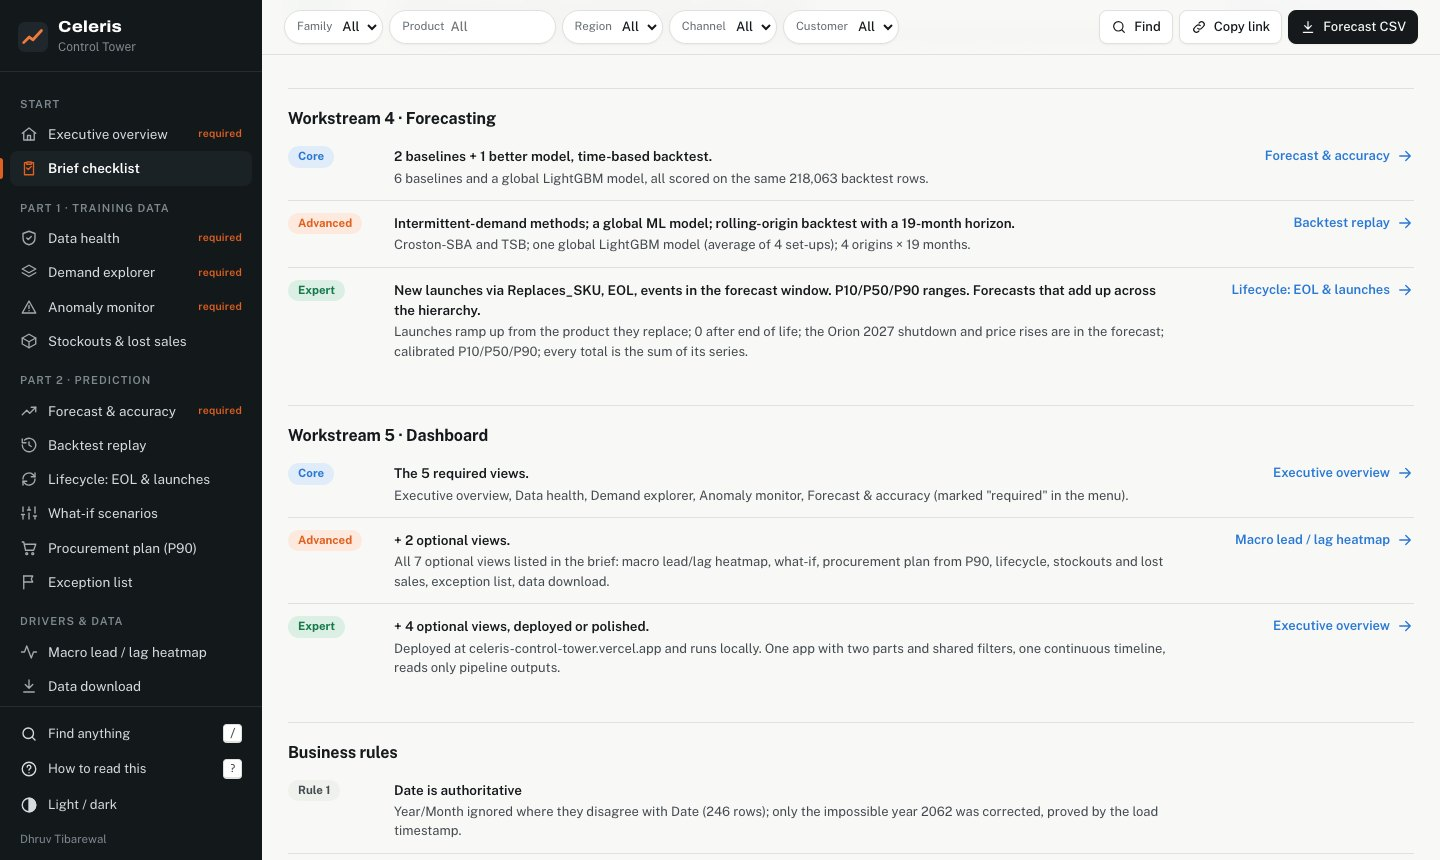
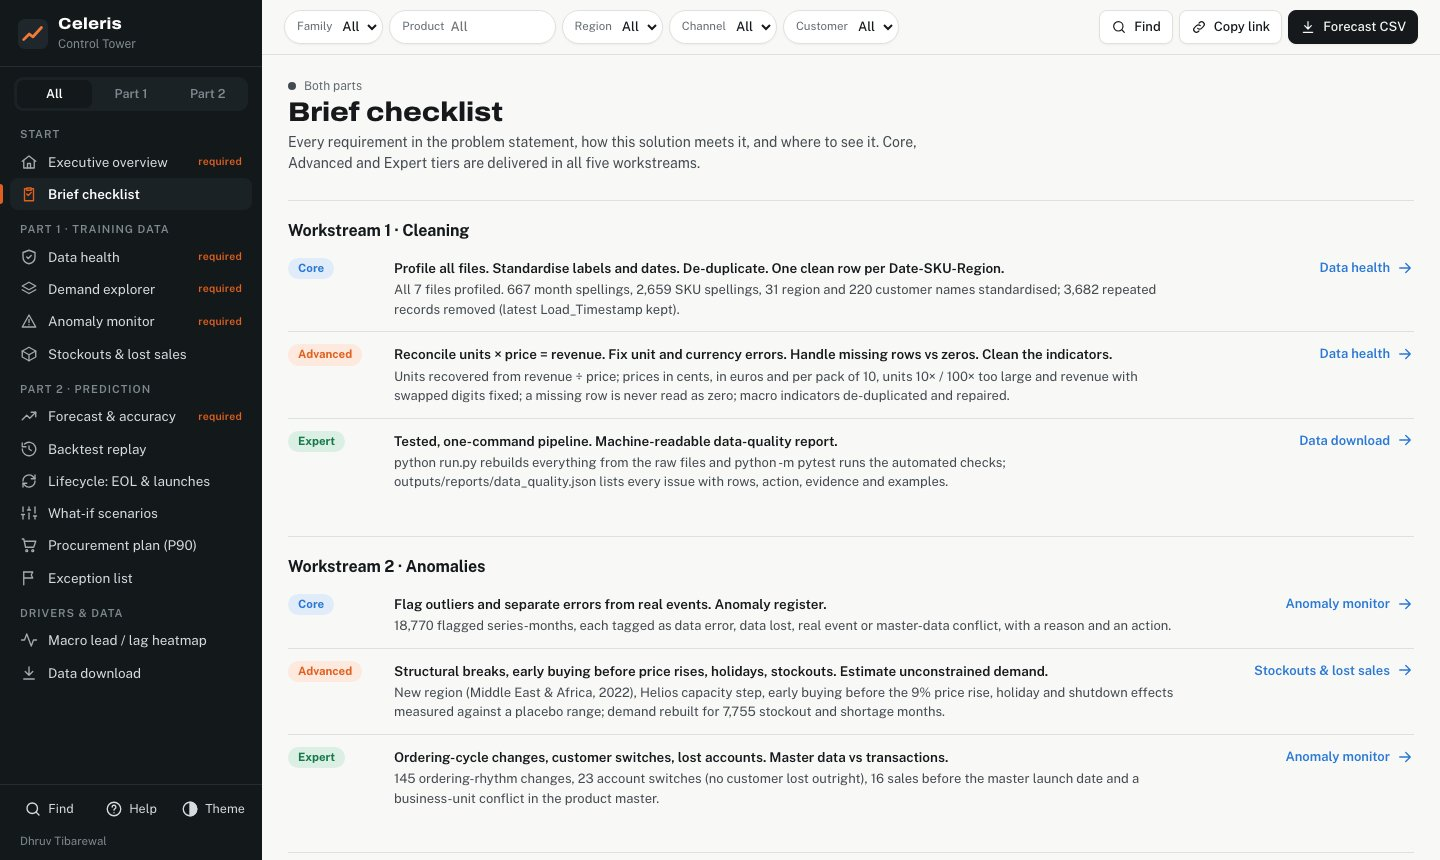
Docs: chart zoom, updated screenshots

diff --git a/docs/DASHBOARD.md b/docs/DASHBOARD.md
@@ -28,6 +28,8 @@ local settings out; `vercel.json` sets caching for `data/`.
   "Copy link" shares exactly what is on screen.
 - **Finder and keys.** `/` opens a finder for products, customers, regions, families and views; `?` opens the
   reading guide; `t` switches light / dark (light is the default; the choice is remembered in the browser).
+- **Zoom.** Timelines zoom with the bar under them, or with a pinch / Ctrl + scroll on the chart; plain scrolling always
+  moves the page. "Reset zoom" appears while a chart is zoomed. Charts redraw whenever their box changes size.
 - **Type:** Archivo for headings and headline numbers, Public Sans for text, JetBrains Mono for numbers in tables.
 - **Colour has one meaning each:** blue = history, orange = forecast, red / green = worse / better, violet =
   estimated data. Dark mode has its own colour steps. Categorical colours come from a palette checked for

diff --git a/README.md b/README.md
@@ -171,6 +171,7 @@ Required views in **bold**.
 - The same five filters (family, product, region, channel, customer) apply to every view. The address bar keeps
   them, so a copied link opens the same view with the same filters.
 - History and forecast share one timeline, with the forecast marked and its P10–P90 range shaded.
+  Timelines zoom with the bar under them, and **Reset zoom** puts them back.
 - Every number comes from `dashboard/data/`, written by `python run.py export`. `tests/test_dashboard.py` checks
   those files against the pipeline outputs.
 
